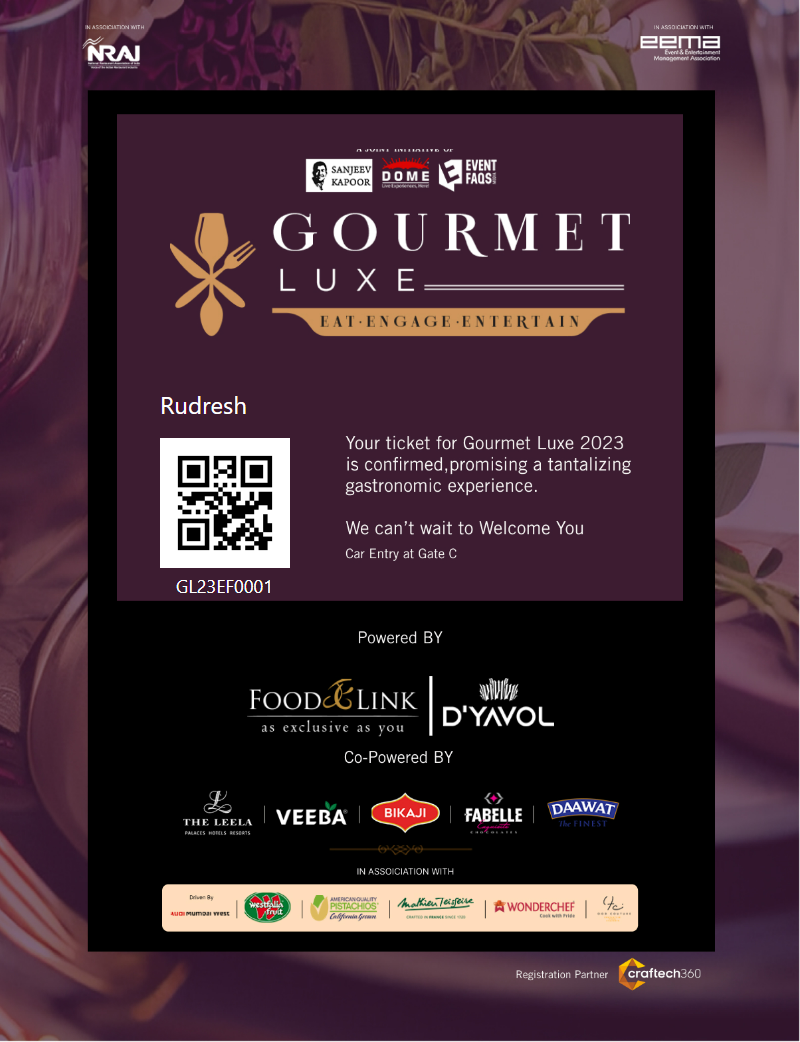
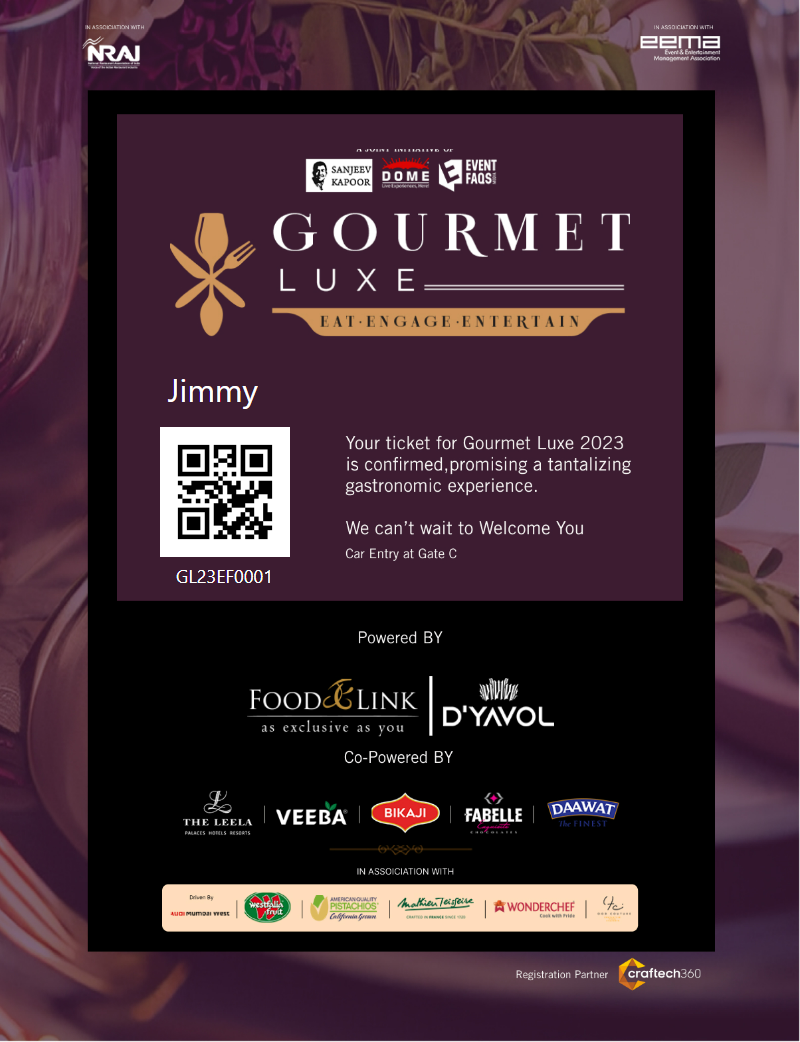
updated image

Changed region(s): [[0.1875, 0.3685, 0.375, 0.5835]]

diff --git a/htmltoimg.js b/htmltoimg.js
@@ -52,21 +52,21 @@ const generateImages = async () => {
 
   #name-container {
     position: absolute;
-    top: 37%;
-    left: 20%;
+    top: 35%;
+    left: 21%;
     max-width: 250px;
     white-space: normal;
   }
 
   
   #name {
-    font-size: x-large;
+    font-size: xx-large;
     color: white;
   }
 
     #qrimg {
       position: absolute;
-      top: 42%;
+      top: 41%;
       left: 20%;
       width: 130px
     }
@@ -75,7 +75,7 @@ const generateImages = async () => {
 
     #code {
       position: absolute;
-      top: 55%;
+      top: 54%;
       left: 22%;
       color: white;
       font-size: large;
@@ -195,72 +195,79 @@ generateImages().then(() => {
 
   peopleCollection.forEach(async (person) => {
 
-    const { name, email, code } = person;
-    const dynamicImageUrl = `https://github.com/Craftech360-projects/qrautogourment/blob/main/images/${code}.png?raw=true`;
-    var htmlString =
-      `<!doctype html><html xmlns="http://www.w3.org/1999/xhtml" xmlns:v="urn:schemas-microsoft-com:vml" xmlns:o="urn:schemas-microsoft-com:office:office"><head><title>GOURMETLUXE</title><!--[if !mso]><!--><meta http-equiv="X-UA-Compatible" content="IE=edge"><!--<![endif]--><meta http-equiv="Content-Type" content="text/html; charset=UTF-8"><meta name="viewport" content="width=device-width,initial-scale=1"><style type="text/css">#outlook a { padding:0; }
-    body { margin:0;padding:0;-webkit-text-size-adjust:100%;-ms-text-size-adjust:100%; }
-    table, td { border-collapse:collapse;mso-table-lspace:0pt;mso-table-rspace:0pt; }
-    img { border:0;height:auto;line-height:100%; outline:none;text-decoration:none;-ms-interpolation-mode:bicubic; }
-    p { display:block;margin:13px 0; }</style><!--[if mso]>
-  <noscript>
-  <xml>
-  <o:OfficeDocumentSettings>
-    <o:AllowPNG/>
-    <o:PixelsPerInch>96</o:PixelsPerInch>
-  </o:OfficeDocumentSettings>
-  </xml>
-  </noscript>
-  <![endif]--><!--[if lte mso 11]>
-  <style type="text/css">
-    .mj-outlook-group-fix { width:100% !important; }
-  </style>
-  <![endif]--><style type="text/css">@media only screen and (min-width:480px) {
-      .mj-column-per-100 { width:100% !important; max-width: 100%; }
-    }</style><style media="screen and (min-width:480px)">.moz-text-html .mj-column-per-100 { width:100% !important; max-width: 100%; }</style><style type="text/css">@media only screen and (max-width:479px) {
-    table.mj-full-width-mobile { width: 100% !important; }
-    td.mj-full-width-mobile { width: auto !important; }
-  }</style><style type="text/css"></style></head><body style="word-spacing:normal;"><div><!--[if mso | IE]><table align="center" border="0" cellpadding="0" cellspacing="0" class="" role="presentation" style="width:600px;" width="600" ><tr><td style="line-height:0px;font-size:0px;mso-line-height-rule:exactly;"><![endif]--><div style="margin:0px auto;max-width:600px;"><table align="center" border="0" cellpadding="0" cellspacing="0" role="presentation" style="width:100%;"><tbody><tr><td style="direction:ltr;font-size:0px;padding:20px 0;text-align:center;"><!--[if mso | IE]><table role="presentation" border="0" cellpadding="0" cellspacing="0"><tr><td class="" style="vertical-align:top;width:600px;" ><![endif]--><div class="mj-column-per-100 mj-outlook-group-fix" style="font-size:0px;text-align:left;direction:ltr;display:inline-block;vertical-align:top;width:100%;"><table border="0" cellpadding="0" cellspacing="0" role="presentation" style="vertical-align:top;" width="100%"><tbody><tr><td align="center" style="font-size:0px;padding:10px 25px;word-break:break-word;"><table border="0" cellpadding="0" cellspacing="0" role="presentation" style="border-collapse:collapse;border-spacing:0px;"><tbody><tr><td style="width:500px;"><img alt="Full Screen Image" src="https://github.com/Craftech360-projects/qrautogourment/blob/main/images/${code}.png?raw=true" style="border:0;display:block;outline:none;text-decoration:none;height:auto;width:100%;font-size:13px;" width="500" height="auto"></td></tr></tbody></table></td></tr></tbody></table></div><!--[if mso | IE]></td></tr></table><![endif]--></td></tr></tbody></table></div><!--[if mso | IE]></td></tr></table><![endif]--></div></body></html>`
+// FOR MAIL SENDING IN LOOP 
 
 
-    async function sendMail() {
-      console.log(`logging at async ${String(code)}, ${String(name)}, ${String(email)}`);
 
-      var result = mailjet
-        .post('send', { version: 'v3.1' })
-        .request({
-          Messages: [
-            {
-              From: {
-                Email: "abilash@craftech360.com",
-                Name: "abilash"
-              },
-              To: [
-                {
-                  Email: `${email}`,
-                  Name: `${name}`
-                }
-              ],
-              Subject: "Gourmet LUXE 2023 new mail",
-              HTMLPart: htmlString,
 
-            }
-          ]
-        });
-      return result;
-    }
+  //   const { name, email, code } = person;
+  //   const dynamicImageUrl = `https://github.com/Craftech360-projects/qrautogourment/blob/main/images/${code}.png?raw=true`;
+  //   var htmlString =
+  //     `<!doctype html><html xmlns="http://www.w3.org/1999/xhtml" xmlns:v="urn:schemas-microsoft-com:vml" xmlns:o="urn:schemas-microsoft-com:office:office"><head><title>GOURMETLUXE</title><!--[if !mso]><!--><meta http-equiv="X-UA-Compatible" content="IE=edge"><!--<![endif]--><meta http-equiv="Content-Type" content="text/html; charset=UTF-8"><meta name="viewport" content="width=device-width,initial-scale=1"><style type="text/css">#outlook a { padding:0; }
+  //   body { margin:0;padding:0;-webkit-text-size-adjust:100%;-ms-text-size-adjust:100%; }
+  //   table, td { border-collapse:collapse;mso-table-lspace:0pt;mso-table-rspace:0pt; }
+  //   img { border:0;height:auto;line-height:100%; outline:none;text-decoration:none;-ms-interpolation-mode:bicubic; }
+  //   p { display:block;margin:13px 0; }</style><!--[if mso]>
+  // <noscript>
+  // <xml>
+  // <o:OfficeDocumentSettings>
+  //   <o:AllowPNG/>
+  //   <o:PixelsPerInch>96</o:PixelsPerInch>
+  // </o:OfficeDocumentSettings>
+  // </xml>
+  // </noscript>
+  // <![endif]--><!--[if lte mso 11]>
+  // <style type="text/css">
+  //   .mj-outlook-group-fix { width:100% !important; }
+  // </style>
+  // <![endif]--><style type="text/css">@media only screen and (min-width:480px) {
+  //     .mj-column-per-100 { width:100% !important; max-width: 100%; }
+  //   }</style><style media="screen and (min-width:480px)">.moz-text-html .mj-column-per-100 { width:100% !important; max-width: 100%; }</style><style type="text/css">@media only screen and (max-width:479px) {
+  //   table.mj-full-width-mobile { width: 100% !important; }
+  //   td.mj-full-width-mobile { width: auto !important; }
+  // }</style><style type="text/css"></style></head><body style="word-spacing:normal;"><div><!--[if mso | IE]><table align="center" border="0" cellpadding="0" cellspacing="0" class="" role="presentation" style="width:600px;" width="600" ><tr><td style="line-height:0px;font-size:0px;mso-line-height-rule:exactly;"><![endif]--><div style="margin:0px auto;max-width:600px;"><table align="center" border="0" cellpadding="0" cellspacing="0" role="presentation" style="width:100%;"><tbody><tr><td style="direction:ltr;font-size:0px;padding:20px 0;text-align:center;"><!--[if mso | IE]><table role="presentation" border="0" cellpadding="0" cellspacing="0"><tr><td class="" style="vertical-align:top;width:600px;" ><![endif]--><div class="mj-column-per-100 mj-outlook-group-fix" style="font-size:0px;text-align:left;direction:ltr;display:inline-block;vertical-align:top;width:100%;"><table border="0" cellpadding="0" cellspacing="0" role="presentation" style="vertical-align:top;" width="100%"><tbody><tr><td align="center" style="font-size:0px;padding:10px 25px;word-break:break-word;"><table border="0" cellpadding="0" cellspacing="0" role="presentation" style="border-collapse:collapse;border-spacing:0px;"><tbody><tr><td style="width:500px;"><img alt="Full Screen Image" src="https://github.com/Craftech360-projects/qrautogourment/blob/main/images/${code}.png?raw=true" style="border:0;display:block;outline:none;text-decoration:none;height:auto;width:100%;font-size:13px;" width="500" height="auto"></td></tr></tbody></table></td></tr></tbody></table></div><!--[if mso | IE]></td></tr></table><![endif]--></td></tr></tbody></table></div><!--[if mso | IE]></td></tr></table><![endif]--></div></body></html>`
 
-    try {
-      await sendMail().then((result) => {
-        console.log(`Email sent successfully to ${String(name)} (${String(email)}): ${result.body}`);
-      })
-        .catch(err => {
-          console.log(err);
-        });
 
-    } catch (err) {
-      console.error(`Error sending email to ${name} (${email}): ${err.statusCode}`);
-    }
+  //   async function sendMail() {
+  //     console.log(`logging at async ${String(code)}, ${String(name)}, ${String(email)}`);
+
+  //     var result = mailjet
+  //       .post('send', { version: 'v3.1' })
+  //       .request({
+  //         Messages: [
+  //           {
+  //             From: {
+  //               Email: "abilash@craftech360.com",
+  //               Name: "abilash"
+  //             },
+  //             To: [
+  //               {
+  //                 Email: `${email}`,
+  //                 Name: `${name}`
+  //               }
+  //             ],
+  //             Subject: "Gourmet LUXE 2023 new mail",
+  //             HTMLPart: htmlString,
+
+  //           }
+  //         ]
+  //       });
+  //     return result;
+  //   }
+
+  //   try {
+  //     await sendMail().then((result) => {
+  //       console.log("indside the try block");
+  //       console.log(`Email sent successfully to ${String(name)} (${String(email)}):${result}`);
+  //     })
+  //       .catch(err => {
+  //         console.log("inside the try's catch block");
+  //         console.log(`error in catch block${err}`);
+  //       });
+
+  //   } catch (err) {
+  //     console.error(`Error sending email to ${name} (${email}): ${err.statusCode}`);
+  //   }
     // send whatsapp
   })
 });
